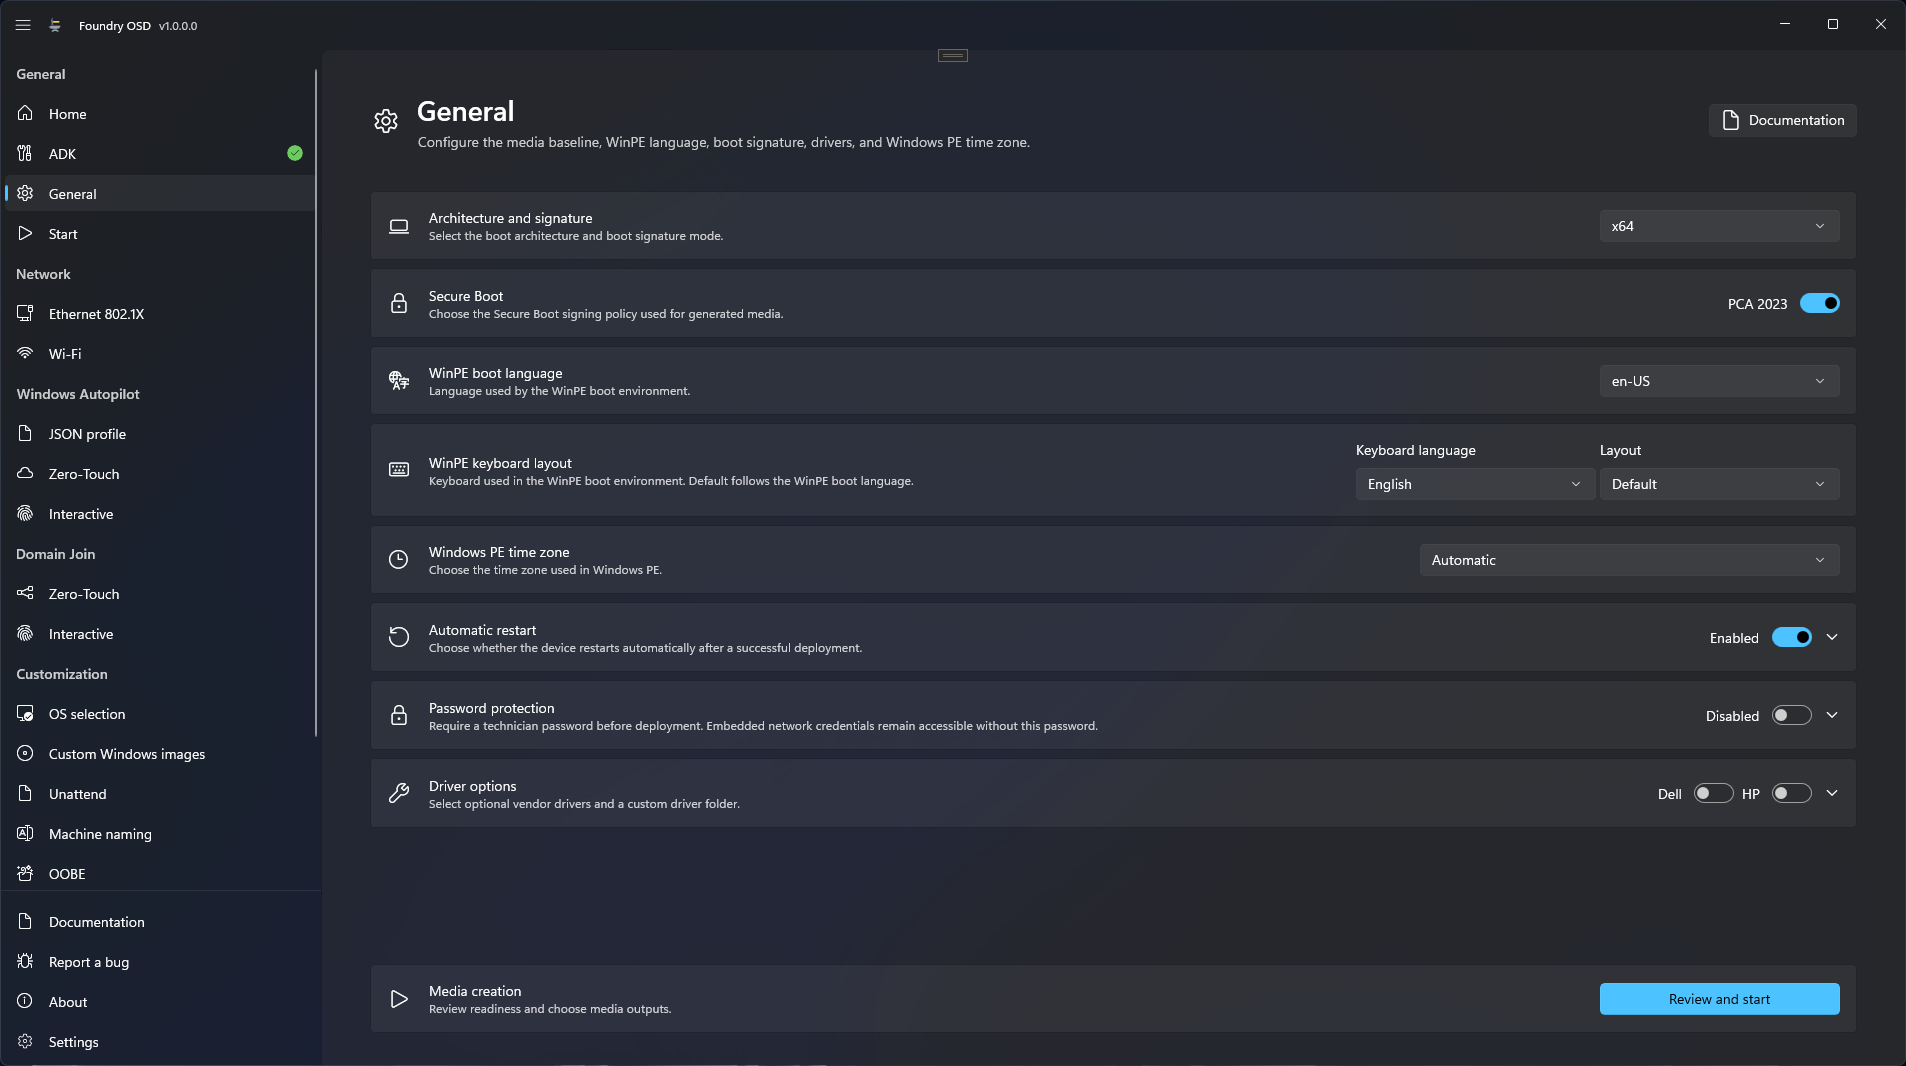
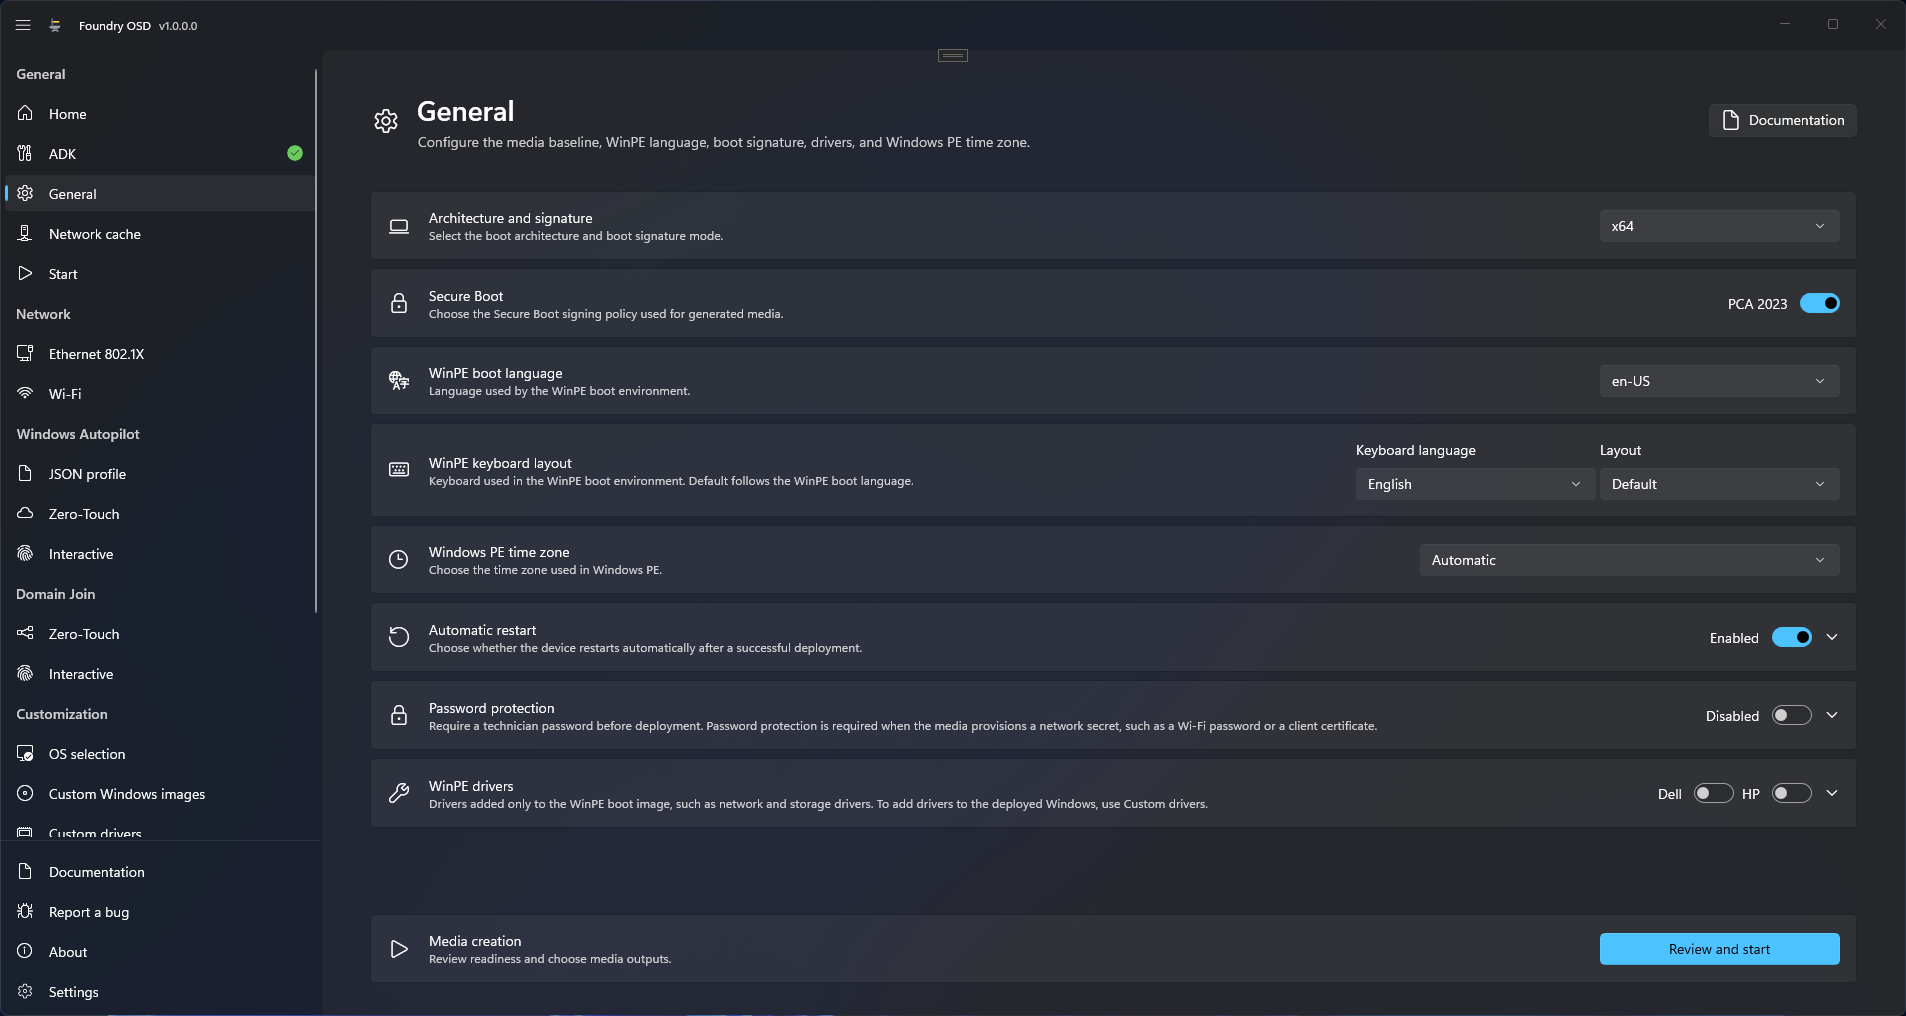
docs(foundry-osd): add the network cache screenshots and refresh the media pages
Add the Network cache page screenshot, refresh the screenshots that now
show the Network cache item and the PXE notes, and drop the placeholders
of the screenshots that were not taken.

diff --git a/foundry-osd/network-cache.md b/foundry-osd/network-cache.md
@@ -4,12 +4,10 @@ The Network cache page lets Foundry Deploy use SMB shares of your network as a s
 
 You change imported content in Foundry OSD, then select **Publish**: devices pick up the change on their next deployment, with the media they already have.
 
-{% hint style="warning" %}
-**Screenshot required**
-
-- **File:** `foundry-osd-network-cache-01-overview.png`
-- **Capture:** Show the Network cache page turned on and up to date, with one account, two shares **Up to date** with their space measured, the **Publish** and **Clean up** buttons, and two IP scopes, one subnet and one range.
-{% endhint %}
+<figure>
+  <img src="../.gitbook/assets/foundry-osd-network-cache-01-overview.png" alt="Network cache page turned on, with one account Ready, one share Up to date with its From the internet and Imported content sizes, the Publish, Refresh and Clean up buttons, and three IP scopes of type Subnet">
+  <figcaption>Accounts, then shares, then the IP scopes that choose the shares of each device.</figcaption>
+</figure>
 
 ## How a device uses the cache
 
@@ -121,13 +119,6 @@ When the bar says instead that this PC cannot publish because its signing key co
 
 Neither state blocks media creation, because creating media publishes too.
 
-{% hint style="warning" %}
-**Screenshot required**
-
-- **File:** `foundry-osd-network-cache-02-not-published.png`
-- **Capture:** Show the Network cache page with the **Not published** warning bar, the **Caution** badge on the **Network cache** navigation item, and the **Publish** button on the **Shares** command bar.
-{% endhint %}
-
 ### Several PCs running Foundry OSD
 
 When several PCs run Foundry OSD, use [configuration sharing](configuration-sharing.md) so that they all publish the same configuration. Without it, each PC publishes its own configuration, and each boot image gets the configuration of the PC that created it.
@@ -197,13 +188,6 @@ All the devices that read from or write to a share at the same time share the ne
 ## If a device stops at start
 
 Foundry Deploy shows one message, **Network cache not available**, with the cause and the place to fix it, either in Foundry OSD or on the server. For some causes it offers **Retry**; **Close** ends Foundry Deploy without deploying. The four messages, their causes and their fixes are listed in [Network cache not available](../troubleshooting/deployment/before-deployment-starts.md#network-cache-not-available).
-
-{% hint style="warning" %}
-**Screenshot required**
-
-- **File:** `foundry-deploy-network-cache-01-startup-error.png`
-- **Capture:** Show the Foundry Deploy **Network cache not available** message for a share that is not responding, with the **Retry** and **Close** buttons.
-{% endhint %}
 
 ## If devices do not use the cache
 

diff --git a/foundry-osd/customization/custom-drivers.md b/foundry-osd/customization/custom-drivers.md
@@ -3,8 +3,8 @@
 **Custom drivers** adds your own driver folders, called driver sets, to the deployment media, so the technician can choose one as the driver source for the deployed Windows. Use it when the driver pack of a manufacturer is older than the drivers on its support site, or when a device has no pack.
 
 <figure>
-  <img src="../../.gitbook/assets/foundry-osd-custom-drivers-01-library.png" alt="Foundry OSD Custom drivers page with the PXE warning under its title, the command bar, and one driver set that is the default, included, with its INF file count, file count, size and Available status">
-  <figcaption>The driver set library: one set, included in the media and offered by default in Foundry Deploy.</figcaption>
+  <img src="../../.gitbook/assets/foundry-osd-custom-drivers-01-library.png" alt="Foundry OSD Custom drivers page with the PXE warning under its title, the command bar, and one driver set, included and not the default, with its INF file count, file count, size and Available status">
+  <figcaption>The driver set library: one set, included in the media.</figcaption>
 </figure>
 
 Drivers added to Windows PE itself are a different setting: see **WinPE drivers** in [General](../general.md#winpe-drivers).

diff --git a/troubleshooting/deployment/before-deployment-starts.md b/troubleshooting/deployment/before-deployment-starts.md
@@ -64,13 +64,6 @@ Problems met when Foundry Deploy opens and in its wizard, up to the **Deploy** b
 
 When the administrator changed the reference PC of [configuration sharing](../../foundry-osd/configuration-sharing.md), a boot image created before the change keeps reading what the previous reference PC published. If the last message stays after **Publish**, the administrator recreates the media from the current reference PC. See [Security and credentials](../../reference/security-and-credentials.md#network-cache-publication).
 
-{% hint style="warning" %}
-**Screenshot required**
-
-- **File:** `foundry-deploy-network-cache-01-startup-error.png`
-- **Capture:** Show the Foundry Deploy **Network cache not available** message for a share that is not responding, with the **Retry** and **Close** buttons.
-{% endhint %}
-
 **Collect:** the message, and the Foundry Deploy log: it names the share and the exact reason. See [Log locations](../logs-and-support.md#log-locations).
 
 ## The Target disk list is empty <a href="#no-disk" id="no-disk"></a>
